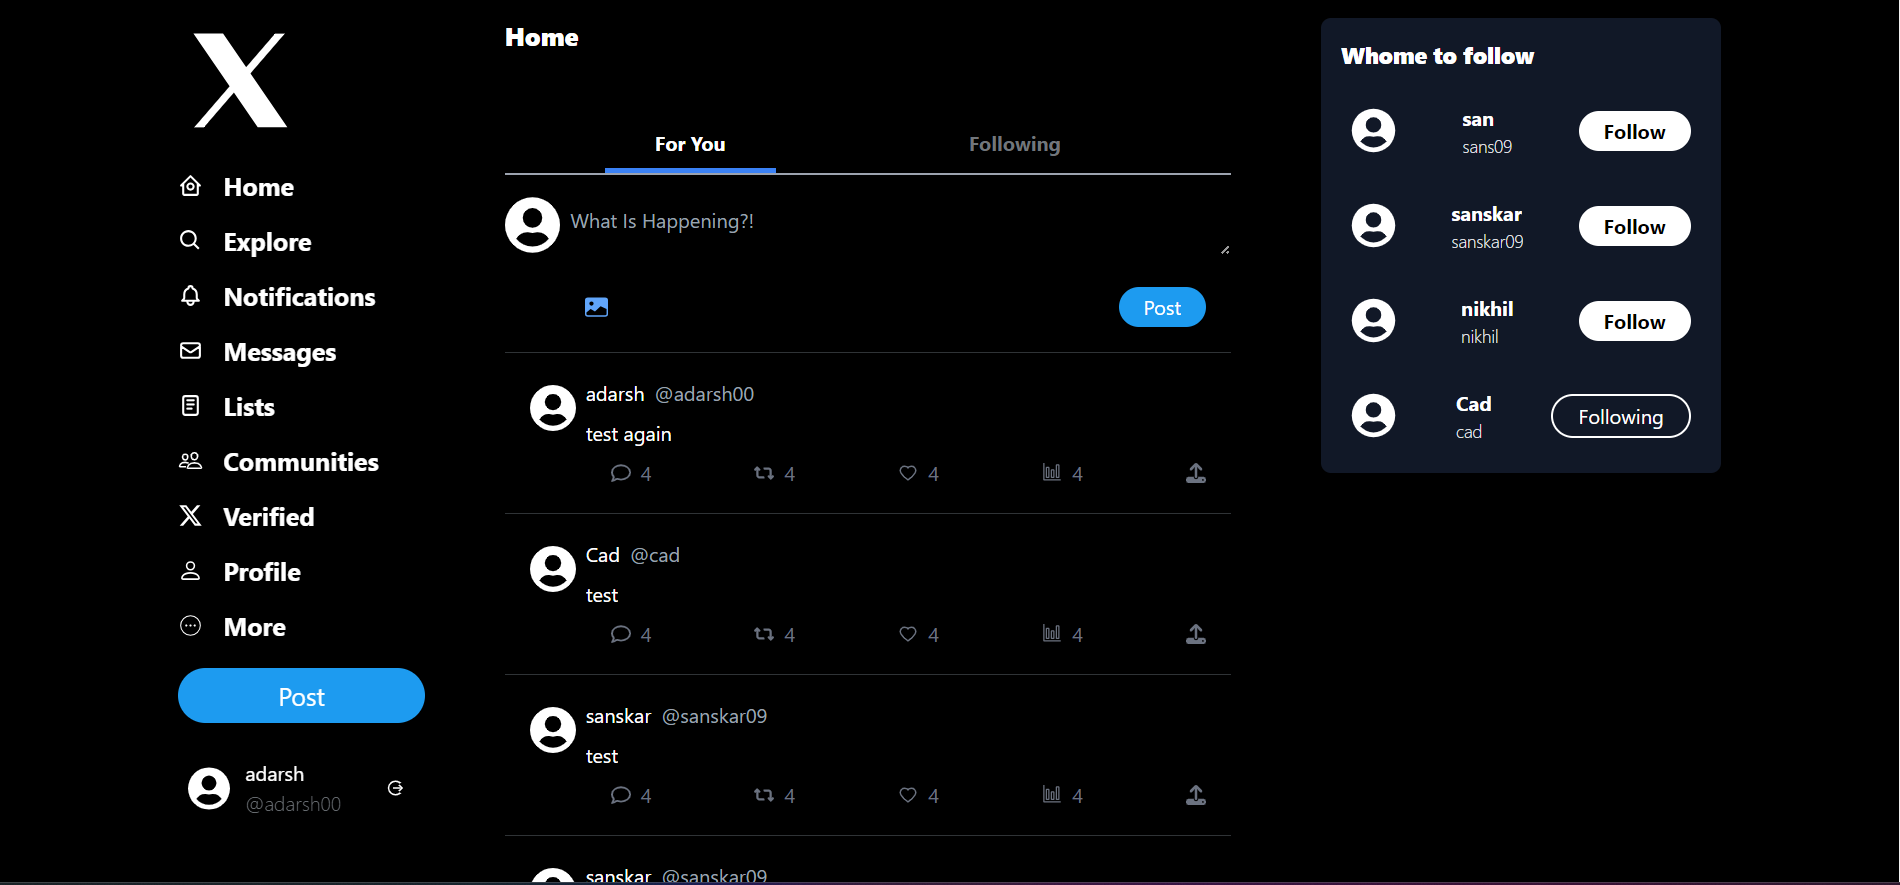
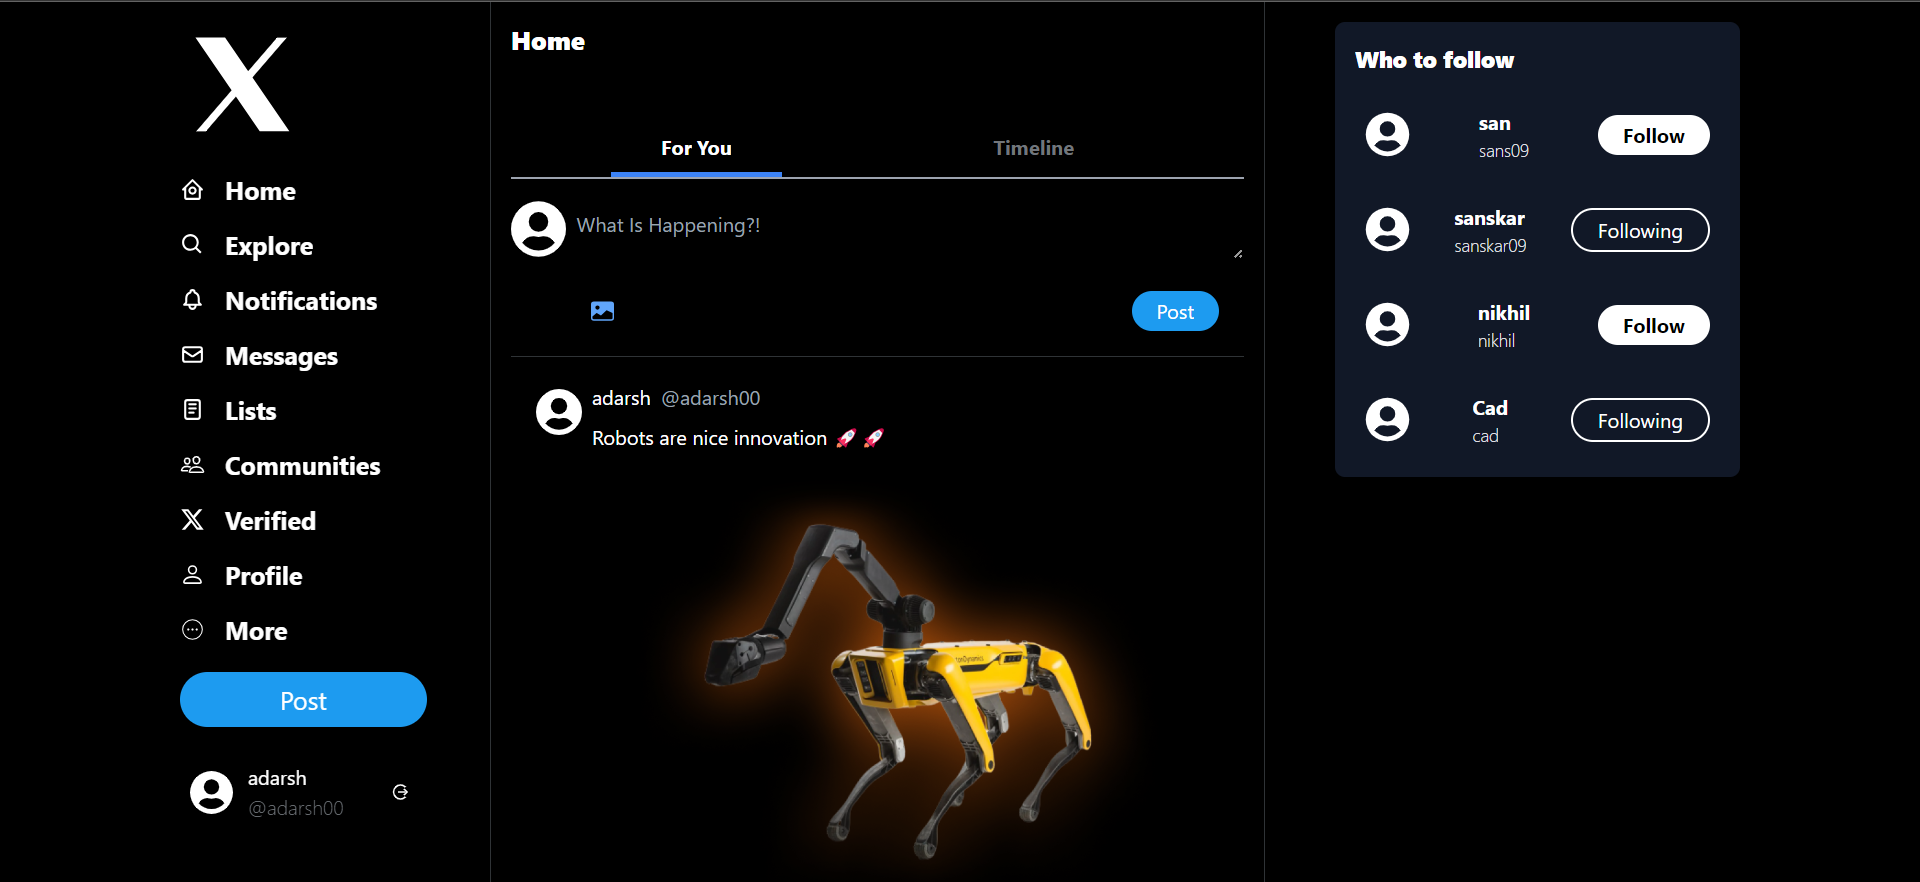
image upload backend added

diff --git a/routes/tweet/TweetController.js b/routes/tweet/TweetController.js
@@ -1,5 +1,12 @@
 const Tweet = require('../../models/tweets.model');
 const User = require('../../models/user.model');
+const cloudinary = require('cloudinary').v2;
+require('dotenv').config();
+cloudinary.config({
+    cloud_name: 'dfpztfd9z',
+    api_key: '759898287683162',
+    api_secret: process.env.CLOUDENARY
+});
 
 module.exports = {
 
@@ -7,19 +14,26 @@ module.exports = {
     // Create a new tweet
     createTweet: async (req, res) => {
         try {
-            const { text } = req.body;
+            const { text, imgurl } = req.body;
             const userId = req.user;
+            // Check if a file was uploaded
+
+            // If no image was uploaded, create the tweet without an image
             const newTweet = new Tweet({
                 author: userId,
                 text,
+                imgurl,
                 createdAt: new Date(),
                 updatedAt: new Date(),
             });
+
             const currentUser = await User.findById(userId);
             currentUser.profile.tweets.push(newTweet._id);
             await currentUser.save();
+
             const savedTweet = await newTweet.save();
             res.status(201).json(savedTweet);
+
         } catch (error) {
             console.error(error);
             res.status(500).json({ error: 'An error occurred while creating the tweet.' });

diff --git a/routes/user/UserController.js b/routes/user/UserController.js
@@ -184,7 +184,6 @@ module.exports = {
             }
 
             const currentUserId = req.user;
-            console.log(currentUserId);
 
             if (currentUserId === userId) {
                 return res.status(400).json({ error: 'Cannot follow yourself' });
@@ -249,7 +248,6 @@ module.exports = {
     getFollowing: async (req, res) => {
         try {
             const userId = req.user;
-            console.log(userId);
             const user = await User.findById(userId)
 
             if (!user) {

diff --git a/routes/tweet/tweet.js b/routes/tweet/tweet.js
@@ -2,6 +2,8 @@ const express = require('express');
 const router = express.Router();
 const TweetController = require('./TweetController');
 const authMiddleware = require('../middleware/auth');
+const fileUpload = require('express-fileupload');
+router.use(fileUpload());
 
 // Define routes for tweet operations
 router.post('/create', authMiddleware, TweetController.createTweet);
